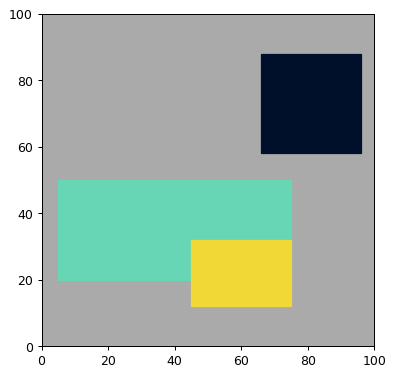
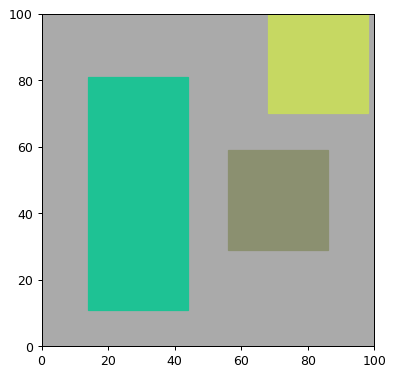
plot square rotation

diff --git a/binpacking/plot/plot_handler.py b/binpacking/plot/plot_handler.py
@@ -26,7 +26,10 @@ class PlotHandler:
         self.items = []
         for i in range(instance.get_instance_size()):
             if solution[i] != None:
-                self.items.append(((solution[i][0], solution[i][1]), (solution[i][0] +instance.get_item(i)[0], solution[i][1] + instance.get_item(i)[1])))
+                if solution[i][2] == 0:
+                    self.items.append(((solution[i][0], solution[i][1]), (solution[i][0] +instance.get_item(i)[0], solution[i][1] + instance.get_item(i)[1])))
+                elif solution[i][2] == 90:
+                    self.items.append(((solution[i][0], solution[i][1]), (solution[i][0] +instance.get_item(i)[1], solution[i][1] + instance.get_item(i)[0])))
 
     @staticmethod
     def _get_random_color() -> CoordinateSolutionType:
